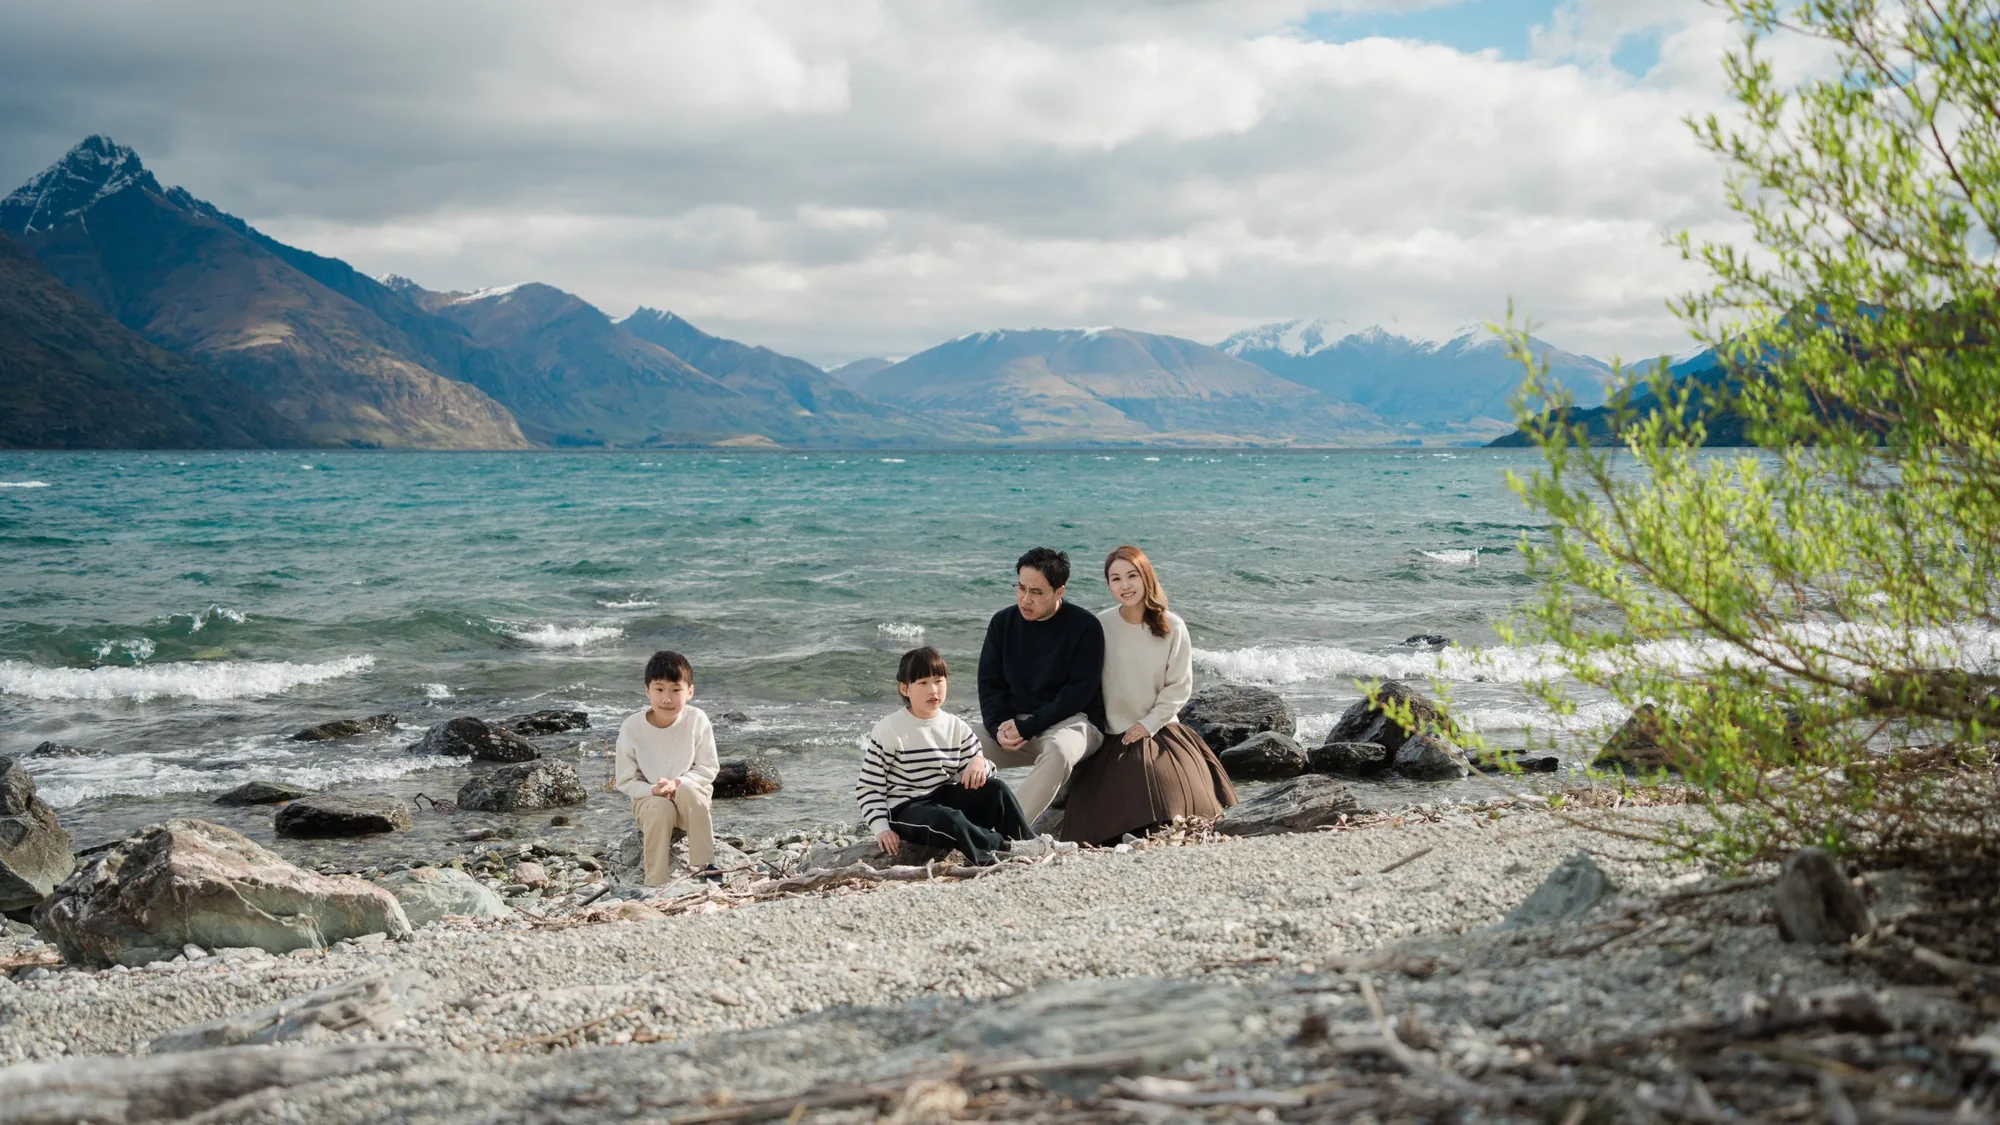
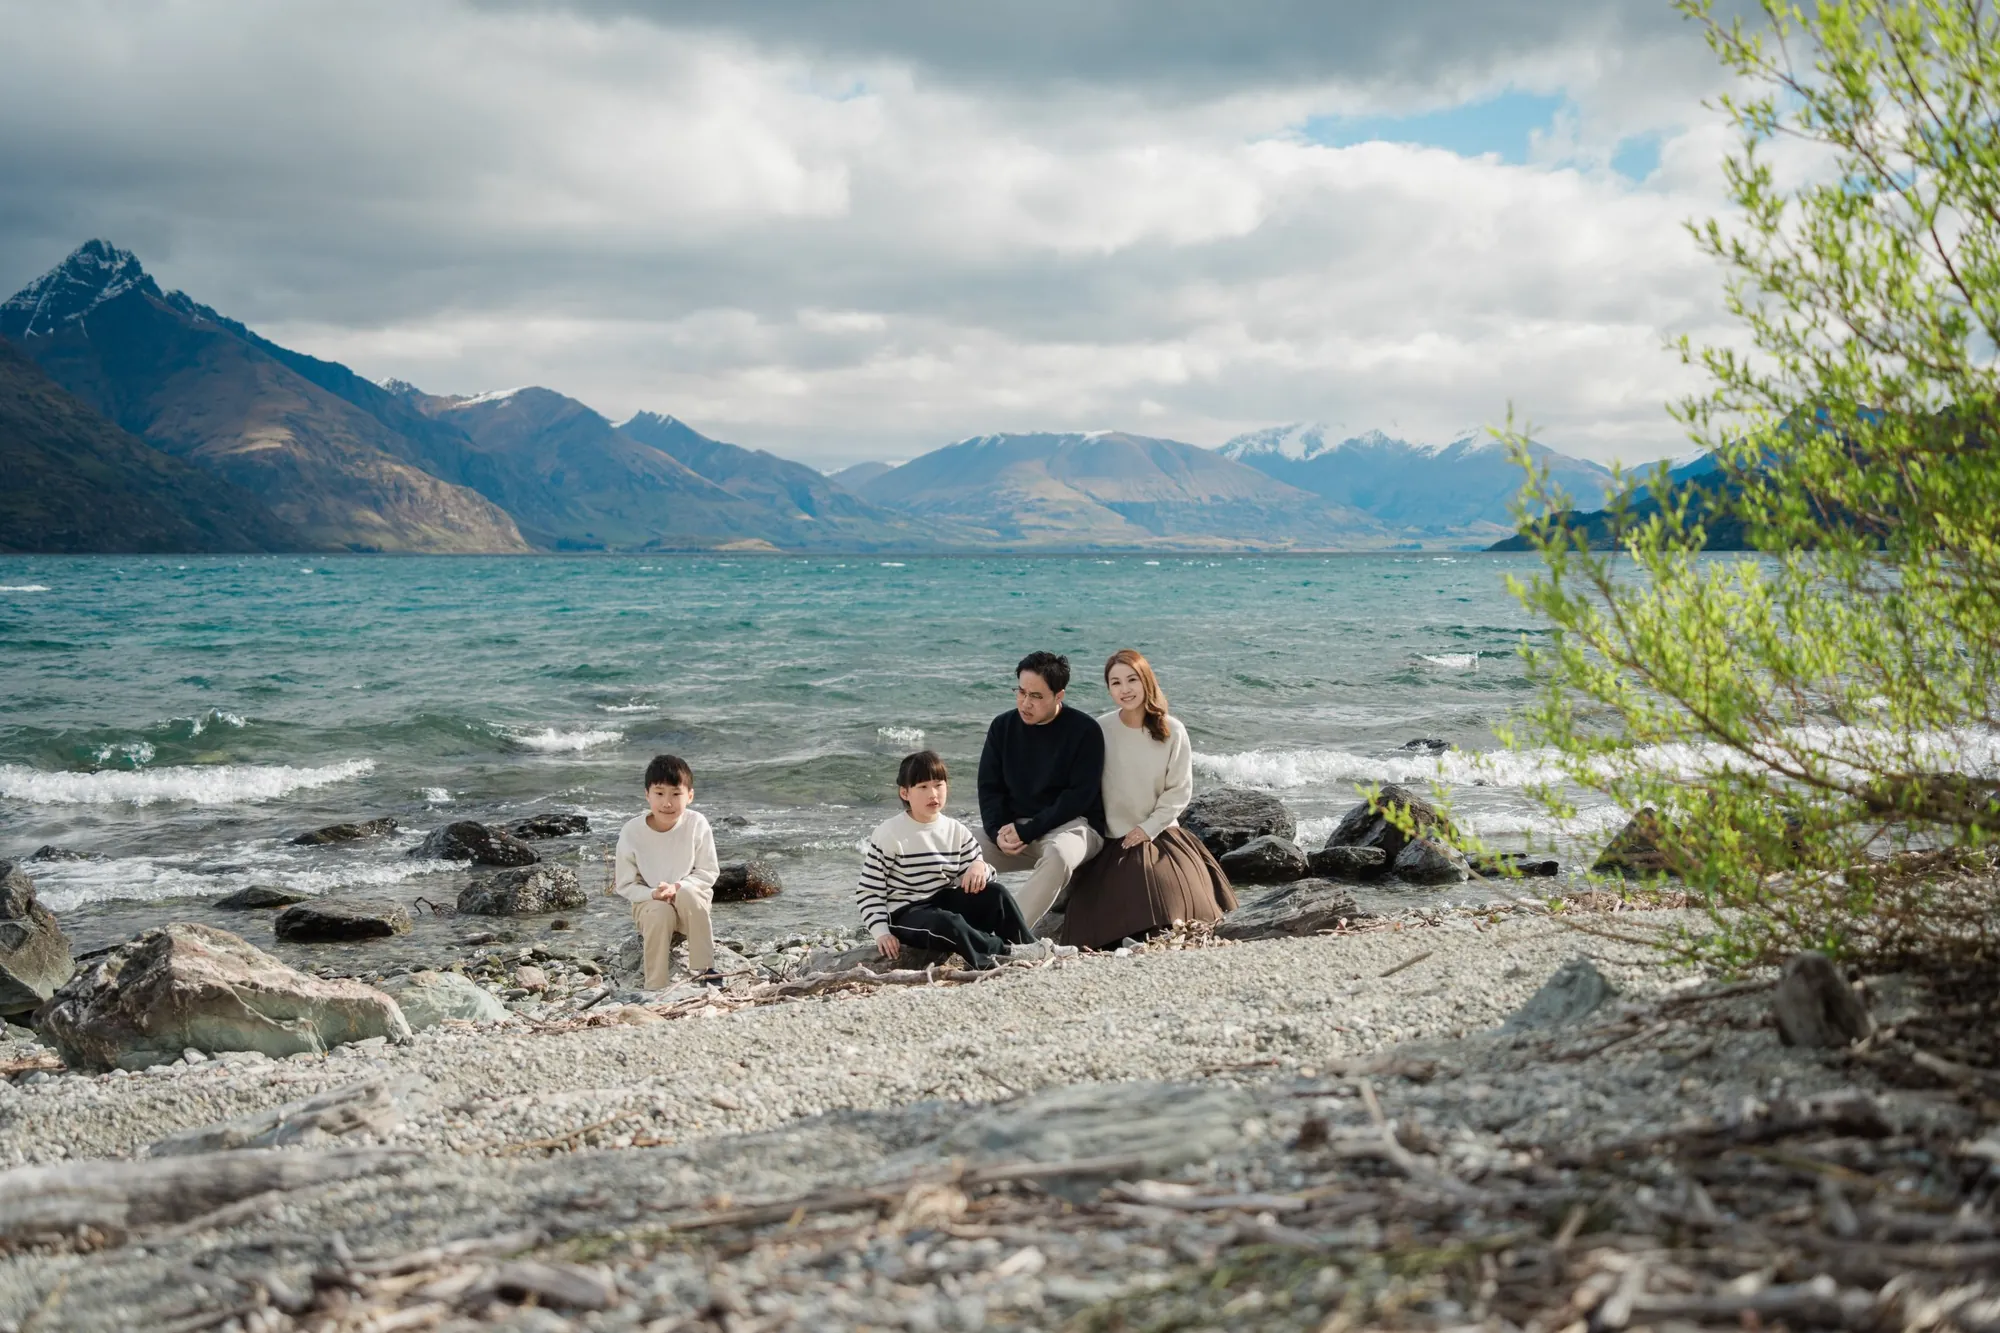
Use full uncropped frame for Queenstown tour cover
Claude-Session: https://claude.ai/code/session_01XU4AxDKdQpUa8NGHWfz6vN

diff --git a/queenstown-sightseeing-tour.html b/queenstown-sightseeing-tour.html
@@ -26,7 +26,7 @@
 <meta property="og:description" content="A private half day around Queenstown, Arrowtown and the Wakatipu Basin, with a photographer-host capturing the day.">
 <meta property="og:image" content="https://www.luminatours.co.nz/image/queenstown/queenstown-sightseeing-tour-cover.webp">
 <meta property="og:image:width" content="2000">
-<meta property="og:image:height" content="1125">
+<meta property="og:image:height" content="1333">
 <meta property="og:image:alt" content="Family portrait on the shore of Lake Wakatipu during a private Queenstown sightseeing photography tour">
 
 <!-- ============ TWITTER / X ============ -->
@@ -768,7 +768,7 @@
   <!-- HERO (image) -->
   <section class="hero" aria-label="Queenstown sightseeing tour">
     <div class="hero-media" data-parallax="0.14">
-      <img class="hero-photo" src="/image/queenstown/queenstown-sightseeing-tour-cover.webp" alt="Family portrait on the shore of Lake Wakatipu during a private Queenstown sightseeing photography tour" decoding="async">
+      <img class="hero-photo" style="object-position:44% 50%" src="/image/queenstown/queenstown-sightseeing-tour-cover.webp" alt="Family portrait on the shore of Lake Wakatipu during a private Queenstown sightseeing photography tour" decoding="async">
     </div>
     <div class="wrap hero-inner">
       <span class="eyebrow">The adventure capital</span>
